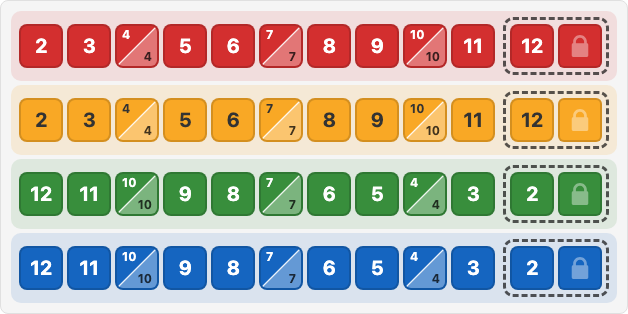
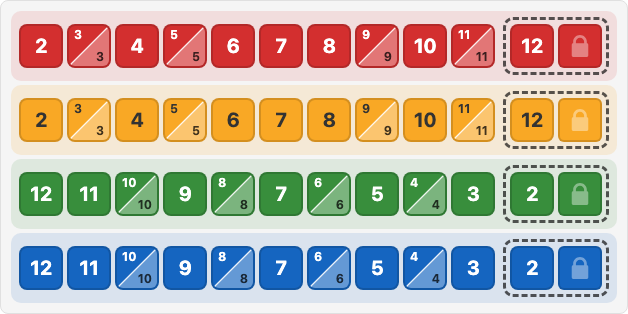
chore: let Double B sheet pattern match real sheets

diff --git a/server/src/main/java/nl/adg/qwixx/game/factory/ConfigurableGameStyleFactory.java b/server/src/main/java/nl/adg/qwixx/game/factory/ConfigurableGameStyleFactory.java
@@ -835,23 +835,36 @@ public class ConfigurableGameStyleFactory implements GameStyleFactory {
         cell.setTags(tags);
     }
 
+    /** The two Double B doubling patterns: each doubles a fixed set of face values in a row. The
+     *  four coloured rows split two-and-two between them (see {@link #doubleBRowTypes}). */
+    private enum DoubleBType { TYPE_1, TYPE_2 }
+
     /**
      * Double A / Double B: attach a "twin" mark to selected coloured cells. Double A twins every
-     * non-closing cell; Double B twins a fixed subset (see {@link #doubleBPositions}). Each twin
-     * shares its primary's colour and value, lives in the same {@link Row}, and is crossable only
-     * after its primary is crossed and nothing to the primary's right is crossed yet (enforced in
+     * non-closing cell; Double B twins the cells whose face value belongs to the row's assigned
+     * pattern (see {@link #doubledValues} and {@link #doubleBRowTypes}). Each twin shares its
+     * primary's colour and value, lives in the same {@link Row}, and is crossable only after its
+     * primary is crossed and nothing to the primary's right is crossed yet (enforced in
      * {@code CellCrosser} via the {@link CellTag.DoubleTwin} tag). Twins share the primary's
      * position so a crossed twin never advances the row's left-to-right progression.
+     *
+     * @param rows the coloured rows, in order, to twin
      */
     private void applyDoubleVariants(List<Row> rows) {
         if (!settings.doubleA() && !settings.doubleB()) return;
-        Set<Integer> bPositions = doubleBPositions();
-        for (Row row : rows) {
+        // Double B assigns each row a value pattern (two rows per type); SAME_CARDS keeps the canonical
+        // order, each DIFFERENT_CARDS card shuffles it. Double A (null) twins every non-closing cell.
+        List<DoubleBType> bTypes = settings.doubleB()
+                ? doubleBRowTypes(settings.cardMode() == CardMode.DIFFERENT_CARDS)
+                : null;
+        for (int r = 0; r < rows.size(); r++) {
+            Row row = rows.get(r);
+            Set<Integer> doubled = bTypes == null ? null : doubledValues(bTypes.get(r));
             // Snapshot the primaries first — we append twins to the same cell list below.
             List<Cell> primaries = new ArrayList<>(row.cells());
             for (Cell primary : primaries) {
                 if (primary.isClosingEligible()) continue; // the closing cell's twin is unreachable
-                if (settings.doubleB() && !bPositions.contains(primary.position())) continue;
+                if (doubled != null && !doubled.contains(Integer.parseInt(primary.displayValue()))) continue;
                 row.addCell(buildTwin(primary));
             }
         }
@@ -866,13 +879,30 @@ public class ConfigurableGameStyleFactory implements GameStyleFactory {
         return twin;
     }
 
-    // Fixed columns that gain a twin under Double B (avoid position 0 and the closing cells).
-    private Set<Integer> doubleBPositions() {
-        if (!settings.doubleB()) return Set.of();
+    // Face values doubled by each Double B pattern. Standard doubles the inner odd (TYPE_1) and even
+    // (TYPE_2) values, leaving the ends and centre single. Longo keeps its doubles inside 4..14, away
+    // from the rare extremes of the 2..16 range; both patterns stay symmetric around the centre (9).
+    private Set<Integer> doubledValues(DoubleBType type) {
         return switch (settings.base()) {
-            case STANDARD -> Set.of(2, 5, 8);
-            case LONGO    -> Set.of(3, 7, 11);
+            case STANDARD -> switch (type) {
+                case TYPE_1 -> Set.of(3, 5, 9, 11);
+                case TYPE_2 -> Set.of(4, 6, 8, 10);
+            };
+            case LONGO -> switch (type) {
+                case TYPE_1 -> Set.of(5, 7, 11, 13);
+                case TYPE_2 -> Set.of(4, 6, 9, 12, 14);
+            };
         };
+    }
+
+    // The per-row Double B pattern assignment: two rows TYPE_1, two rows TYPE_2. SAME_CARDS keeps the
+    // canonical order (RED, YELLOW → TYPE_1; GREEN, BLUE → TYPE_2); DIFFERENT_CARDS shuffles it per
+    // player, so the order differs between cards while each still holds two of each type.
+    private List<DoubleBType> doubleBRowTypes(boolean shuffle) {
+        List<DoubleBType> types = new ArrayList<>(List.of(
+                DoubleBType.TYPE_1, DoubleBType.TYPE_1, DoubleBType.TYPE_2, DoubleBType.TYPE_2));
+        if (shuffle) Collections.shuffle(types, random);
+        return types;
     }
 
     // ── Bonus A ────────────────────────────────────────────────────────────────

diff --git a/server/src/test/java/nl/adg/qwixx/game/factory/ConfigurableGameStyleFactoryTest.java b/server/src/test/java/nl/adg/qwixx/game/factory/ConfigurableGameStyleFactoryTest.java
@@ -815,30 +815,60 @@ class ConfigurableGameStyleFactoryTest {
         }
     }
 
-    @Test
-    void doubleB_twinsOnlyFixedPositions() {
-        ConfigurableGameStyleFactory f = new ConfigurableGameStyleFactory(
-                GameSettings.builder().doubleB(true).cardMode(CardMode.SAME_CARDS).build());
-        for (Row row : rows(f)) {
-            Set<Integer> twinPositions = new HashSet<>();
-            for (Cell cell : row.cells()) {
-                if (cell.tags().stream().anyMatch(t -> t instanceof CellTag.DoubleTwin)) {
-                    twinPositions.add(cell.position());
-                }
-            }
-            assertEquals(Set.of(2, 5, 8), twinPositions, "Double B twins only positions 2, 5, 8");
+    // Face values doubled by each Double B pattern (mirrors the factory's private table).
+    private static final Set<Integer> TYPE_1_VALUES = Set.of(3, 5, 9, 11);
+    private static final Set<Integer> TYPE_2_VALUES = Set.of(4, 6, 8, 10);
+
+    private static boolean isTwin(Cell cell) {
+        return cell.tags().stream().anyMatch(t -> t instanceof CellTag.DoubleTwin);
+    }
+
+    // The face values that carry a twin in the given row.
+    private static Set<Integer> twinnedValues(Row row) {
+        Set<Integer> values = new HashSet<>();
+        for (Cell cell : row.cells()) {
+            if (isTwin(cell)) values.add(Integer.parseInt(cell.displayValue()));
         }
+        return values;
     }
 
     @Test
-    void doubleB_appliedInDifferentCardsMode() {
+    void doubleB_twinsByValuePatternInSameCardsMode() {
+        ConfigurableGameStyleFactory f = new ConfigurableGameStyleFactory(
+                GameSettings.builder().doubleB(true).cardMode(CardMode.SAME_CARDS).build());
+        List<Row> rows = rows(f);
+        // Canonical assignment: RED, YELLOW → TYPE_1; GREEN, BLUE → TYPE_2.
+        assertEquals(TYPE_1_VALUES, twinnedValues(rows.get(0)), "RED doubles TYPE_1 values");
+        assertEquals(TYPE_1_VALUES, twinnedValues(rows.get(1)), "YELLOW doubles TYPE_1 values");
+        assertEquals(TYPE_2_VALUES, twinnedValues(rows.get(2)), "GREEN doubles TYPE_2 values");
+        assertEquals(TYPE_2_VALUES, twinnedValues(rows.get(3)), "BLUE doubles TYPE_2 values");
+    }
+
+    @Test
+    void doubleB_differentCardsModeKeepsTwoOfEachType() {
         ConfigurableGameStyleFactory f = new ConfigurableGameStyleFactory(
                 GameSettings.builder().doubleB(true).cardMode(CardMode.DIFFERENT_CARDS).build(), new Random(1));
         List<Row> rows = f.buildRows(List.of(UUID.randomUUID())).values().iterator().next();
+
+        long type1Rows = rows.stream().filter(r -> twinnedValues(r).equals(TYPE_1_VALUES)).count();
+        long type2Rows = rows.stream().filter(r -> twinnedValues(r).equals(TYPE_2_VALUES)).count();
+        assertEquals(2, type1Rows, "exactly two rows use the TYPE_1 pattern");
+        assertEquals(2, type2Rows, "exactly two rows use the TYPE_2 pattern");
+
         long twins = rows.stream().flatMap(r -> r.cells().stream())
-                .filter(c -> c.tags().stream().anyMatch(t -> t instanceof CellTag.DoubleTwin))
+                .filter(ConfigurableGameStyleFactoryTest::isTwin)
                 .count();
-        assertEquals(12, twins, "3 twins per coloured row across 4 rows");
+        assertEquals(16, twins, "4 twins per coloured row across 4 rows");
+    }
+
+    @Test
+    void doubleB_longoDoublesInnerValuesAwayFromExtremes() {
+        ConfigurableGameStyleFactory f = new ConfigurableGameStyleFactory(
+                GameSettings.builder().base(BaseVariant.LONGO).doubleB(true).cardMode(CardMode.SAME_CARDS).build());
+        List<Row> rows = rows(f);
+        // Longo keeps doubles inside 4..14, symmetric around 9; RED, YELLOW → TYPE_1; GREEN, BLUE → TYPE_2.
+        assertEquals(Set.of(5, 7, 11, 13), twinnedValues(rows.get(0)), "Longo RED doubles TYPE_1 values");
+        assertEquals(Set.of(4, 6, 9, 12, 14), twinnedValues(rows.get(3)), "Longo BLUE doubles TYPE_2 values");
     }
 
     // ── Longo lock (buildLock) ──────────────────────────────────────────────────

diff --git a/server/src/test/java/nl/adg/qwixx/rules/DoubleVariantTest.java b/server/src/test/java/nl/adg/qwixx/rules/DoubleVariantTest.java
@@ -9,6 +9,7 @@ import java.util.Map;
 import java.util.Random;
 import java.util.Set;
 import java.util.UUID;
+import java.util.stream.Collectors;
 import nl.adg.qwixx.action.CrossCellAction;
 import nl.adg.qwixx.action.DiceCombination;
 import nl.adg.qwixx.action.GameAction;
@@ -159,14 +160,18 @@ class DoubleVariantTest {
     }
 
     @Test
-    void doubleBAddsTwinsOnlyAtFixedPositions() {
+    void doubleBAddsTwinsByValuePattern() {
         List<Row> rows = buildForSettings(GameSettings.builder().doubleB(true).build());
+        // Canonical SAME_CARDS assignment: RED, YELLOW → TYPE_1; GREEN, BLUE → TYPE_2.
+        List<Set<Integer>> expected = List.of(
+                Set.of(3, 5, 9, 11), Set.of(3, 5, 9, 11), Set.of(4, 6, 8, 10), Set.of(4, 6, 8, 10));
         for (int r = 0; r < 4; r++) {
-            List<Integer> twinPositions = rows.get(r).cells().stream()
+            Set<Integer> twinValues = rows.get(r).cells().stream()
                     .filter(c -> CellCrosser.findTwinTag(c) != null)
-                    .map(Cell::position).sorted().toList();
-            assertEquals(List.of(2, 5, 8), twinPositions,
-                    "Double B (standard) twins the fixed columns 2,5,8 in row " + r);
+                    .map(c -> Integer.parseInt(c.displayValue()))
+                    .collect(Collectors.toSet());
+            assertEquals(expected.get(r), twinValues,
+                    "Double B (standard) twins its type's face values in row " + r);
         }
     }
 
